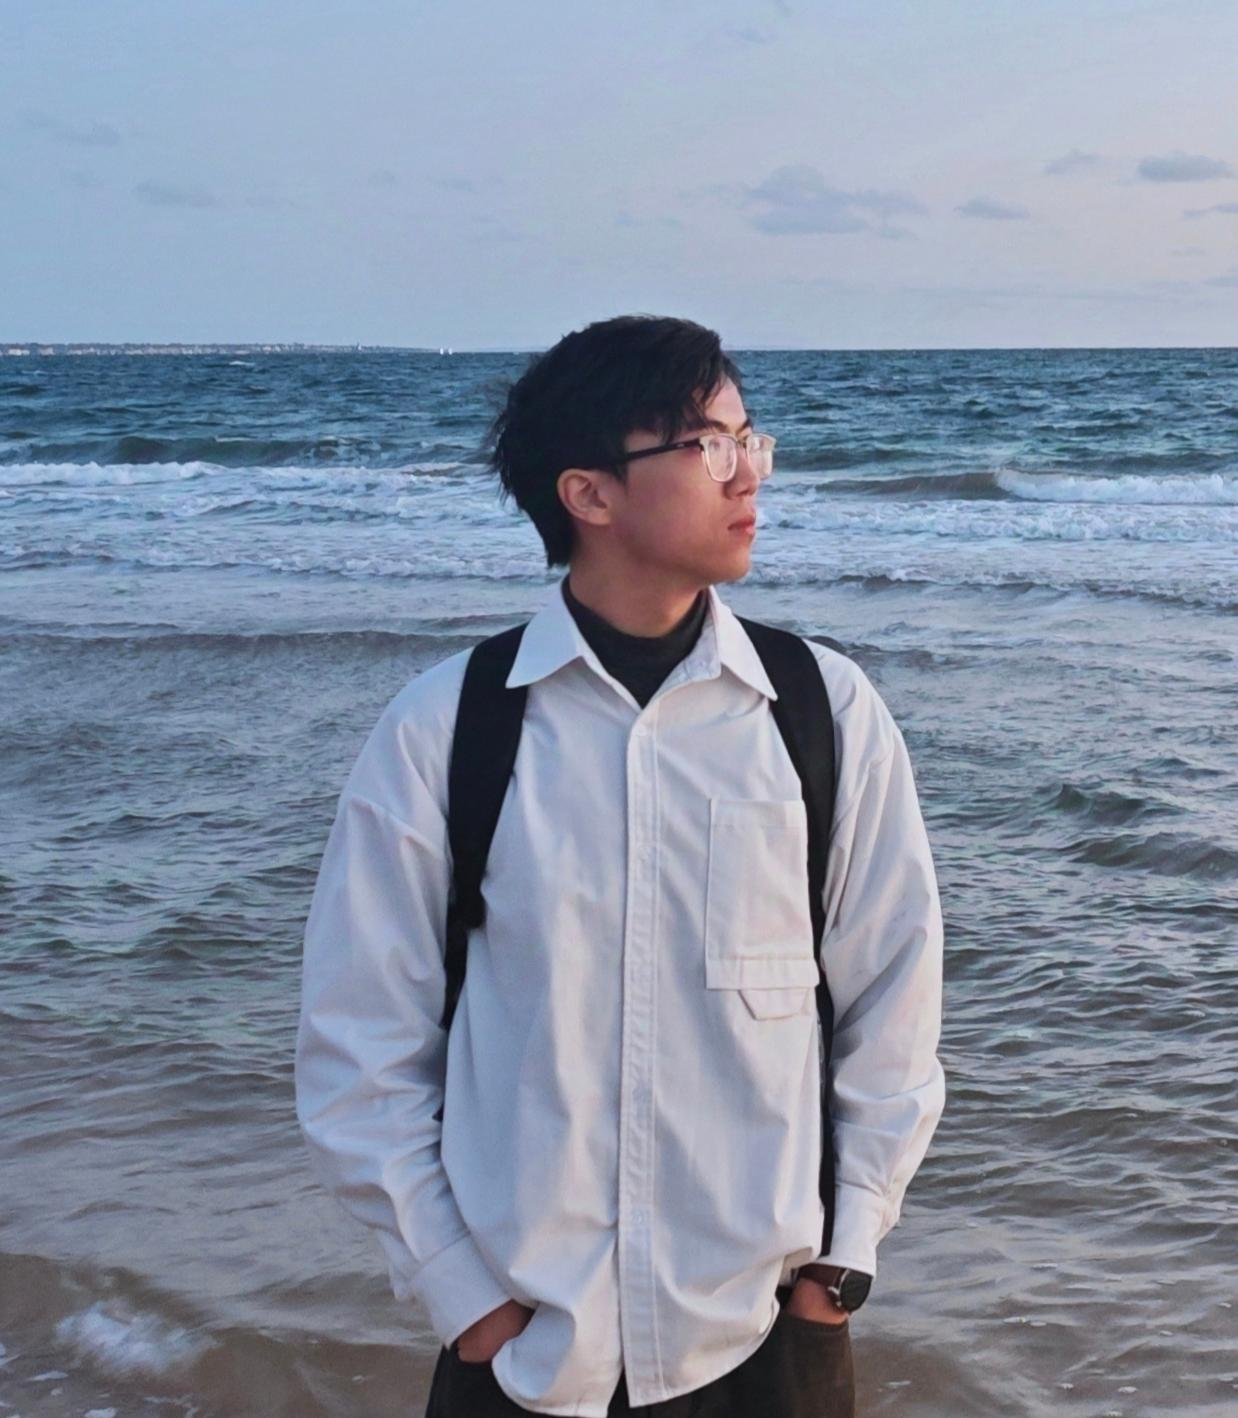
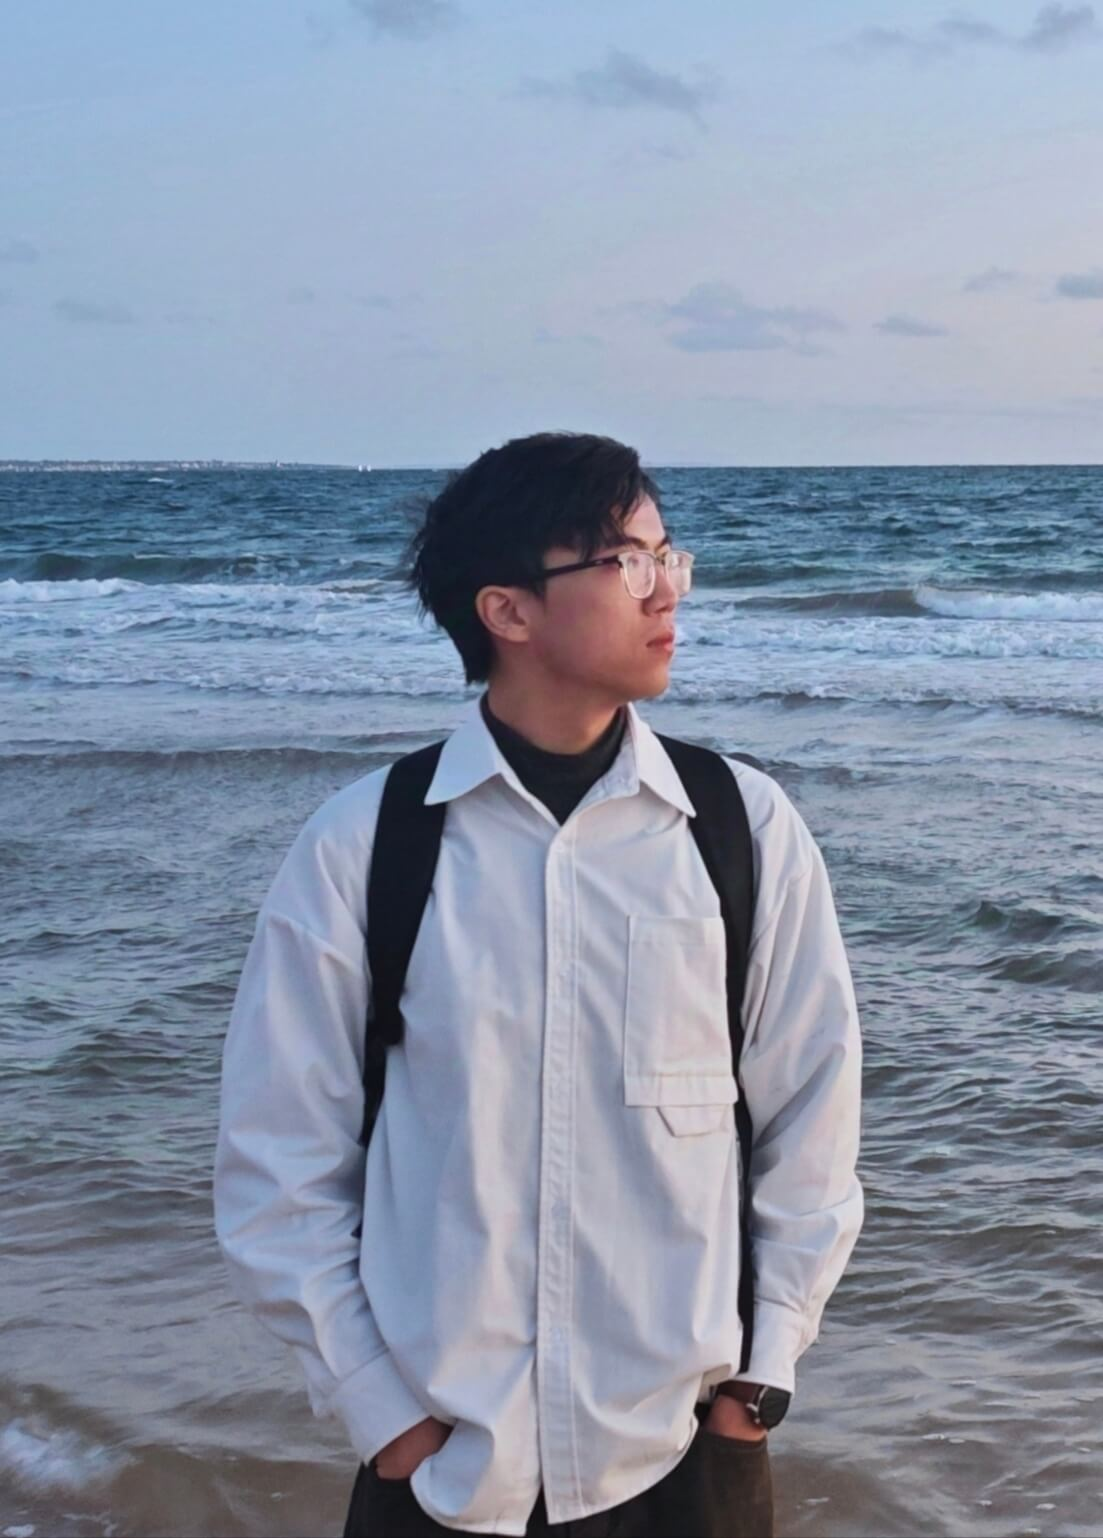
update image

diff --git a/index.html b/index.html
@@ -31,7 +31,7 @@
                   <a href="https://github.com/shentt67/" target="_blank">Github</a>
                 </p>
               </td>
-              <td style="padding-top:2.5%; padding-right: 5%;width:23%;max-width:23%">
+              <td style="padding-top:2.5%; padding-right: 5%;width:20%;max-width:20%">
                 <img style="width:100%; max-width:100%; object-fit: cover;" alt="profile photo" src="images/photo.jpg">
               </td>
             </tr>
